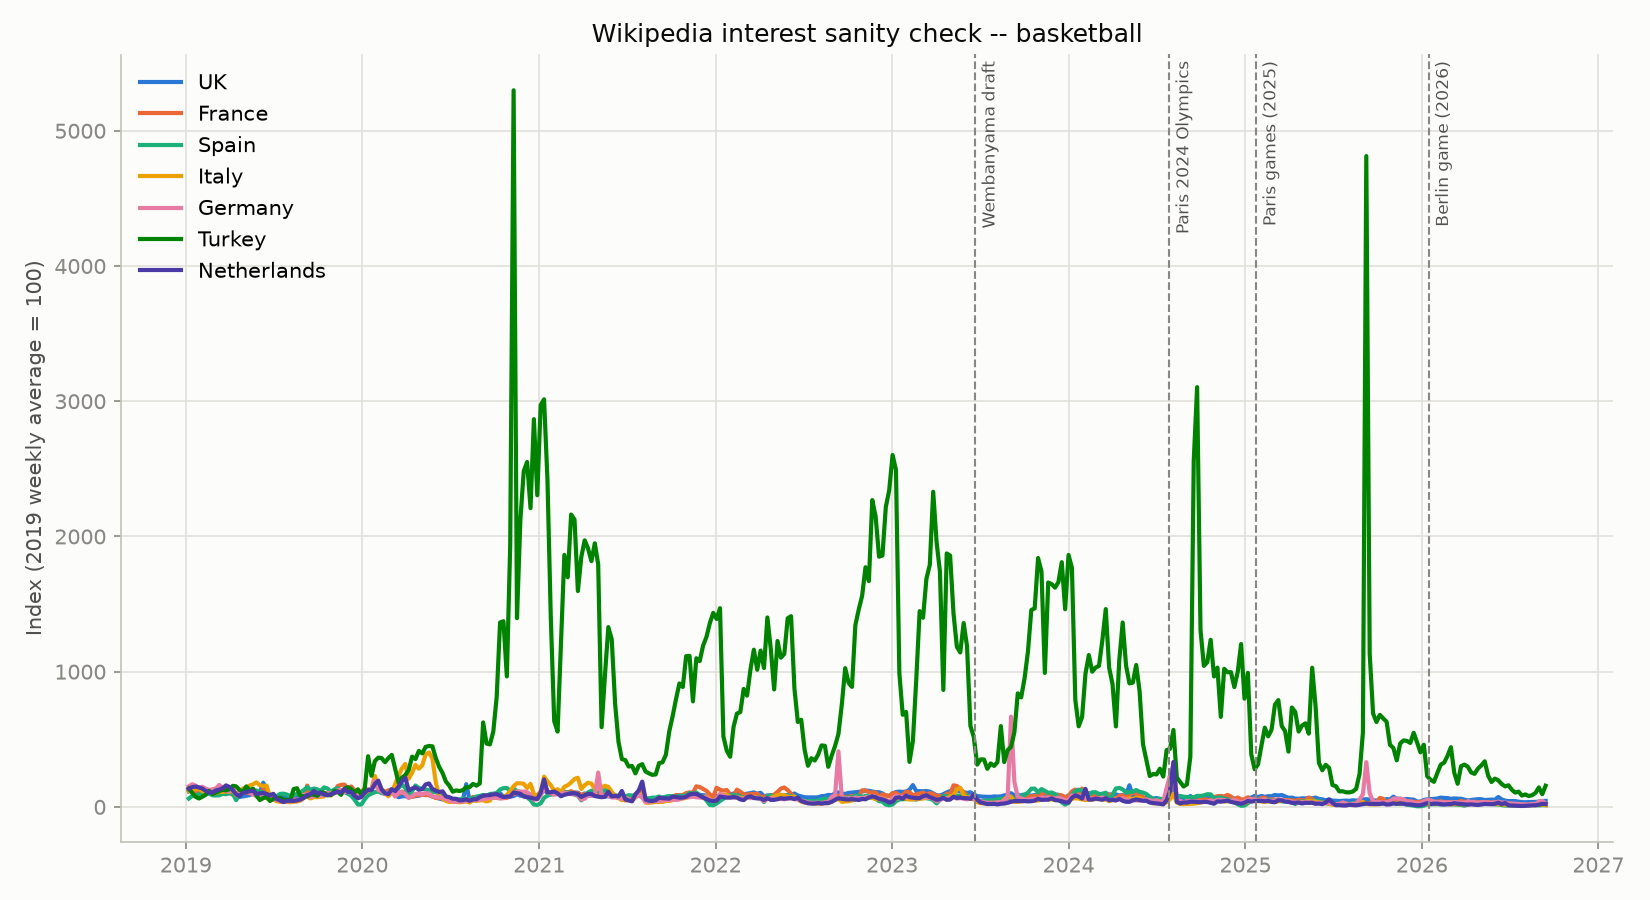
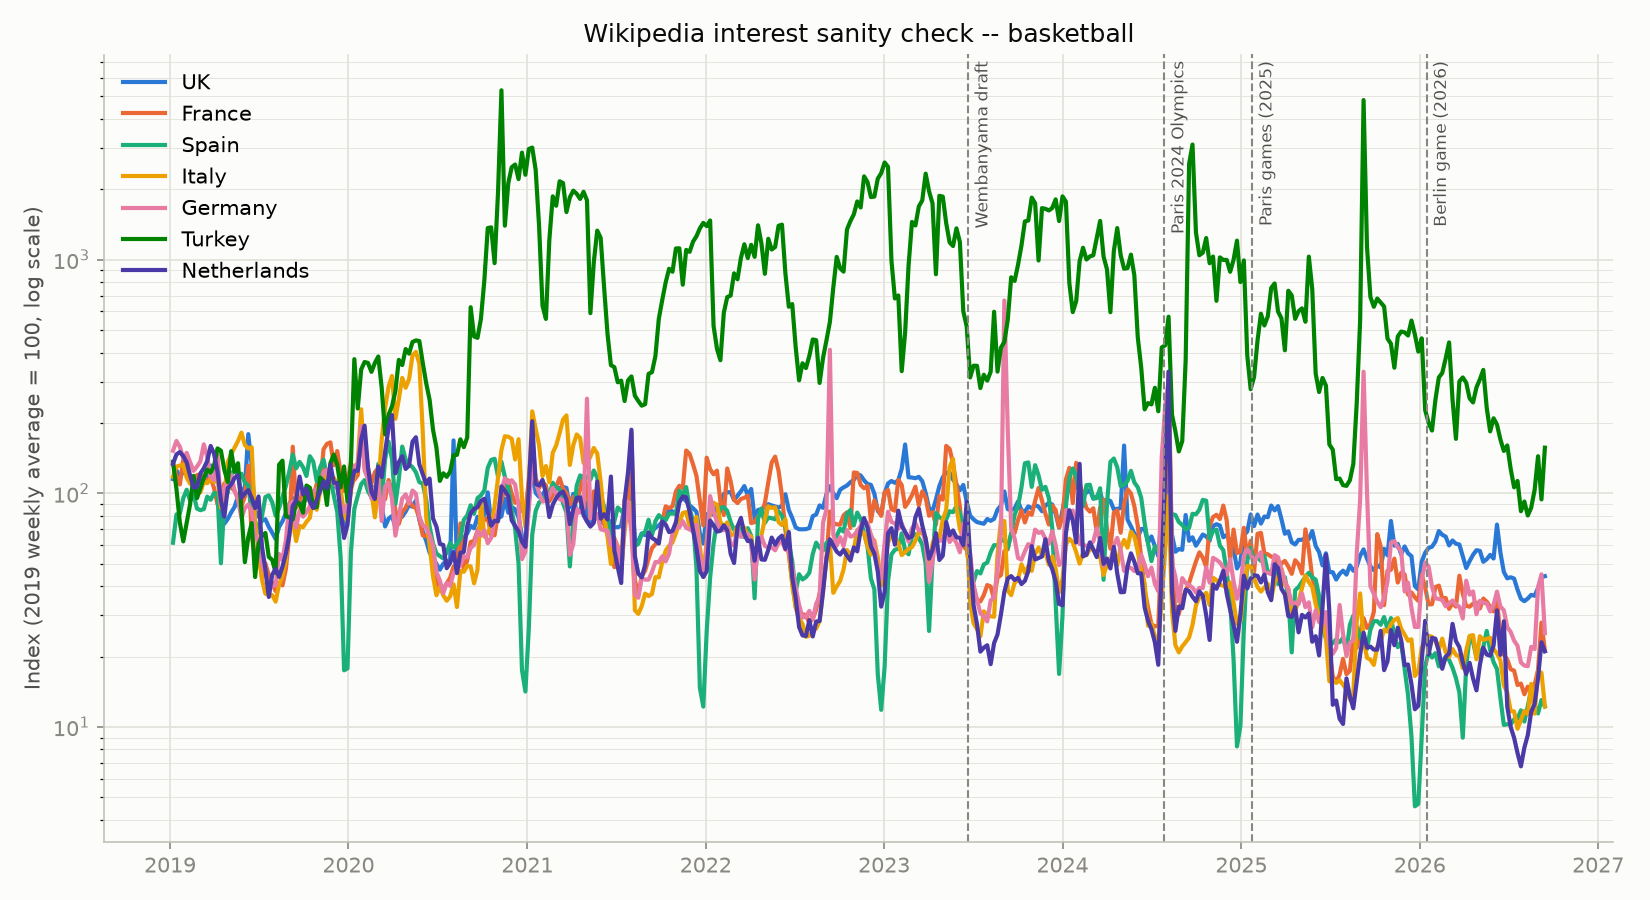
Don't zero-fill multi-day gaps; log-scale sanity charts
Isolated gaps (<3 consecutive missing days) still fill to 0 -- almost
all of them are real zero-view days the pageviews API omits. Runs of
3+ days (it/nba's 2026-07-19..23) are left NULL and excluded from
that week's sum instead, since a week built from 2 real days out of 7
is not the same fact as a week of zero interest. Weekly rows built
from fewer than 7 non-null days are flagged incomplete=True rather
than silently averaged in.

Turkey's index looked like a baseline artifact, but the diagnostic
says otherwise: tr's 2019 median weekly views (240-272) clear the
~100 stability threshold comfortably, while nl/nba's (63) don't --
Turkey's index spikes are one genuinely disproportionate real-world
swing, not thin-baseline noise. Switched both sanity charts to a log
y-axis so every country stays legible next to Turkey's swings.

Logged two more decisions: flagging the Jan 2020 Kobe Bryant news
spike as a confound, and the NULL-vs-zero gap-filling rule.

diff --git a/src/process_interest.py b/src/process_interest.py
@@ -72,7 +72,8 @@ def load_joined(con: duckdb.DuckDBPyConnection) -> None:
 
 
 def build_daily(con: duckdb.DuckDBPyConnection) -> pd.DataFrame:
-    """Full daily calendar per series (own min/max date), gaps filled with 0 views."""
+    """Full daily calendar per series (own min/max date). Missing days are NULL
+    views here; apply_gap_fill decides which ones become 0."""
     return con.execute("""
         WITH series_range AS (
             SELECT lang, country, topic, MIN(day) AS start_day, MAX(day) AS end_day
@@ -85,7 +86,7 @@ def build_daily(con: duckdb.DuckDBPyConnection) -> pd.DataFrame:
             FROM series_range
         )
         SELECT c.lang, c.country, c.topic, c.day,
-               COALESCE(j.views, 0) AS views,
+               j.views AS views,
                (j.day IS NULL) AS was_filled
         FROM calendar c
         LEFT JOIN joined j USING (lang, country, topic, day)
@@ -110,6 +111,21 @@ def find_gap_runs(missing_days: pd.Series) -> list[GapRun]:
         else:
             runs.append(GapRun(day, day, 1))
     return runs
+
+
+def apply_gap_fill(daily: pd.DataFrame) -> pd.DataFrame:
+    """Zero-fill isolated gaps (run length < GAP_CLUSTER_THRESHOLD). Longer runs
+    (3+ days, e.g. it/nba's July 2026 outage) are left NULL so they're excluded
+    from weekly sums rather than faked as zero interest."""
+    daily = daily.copy()
+    for (lang, country, topic), group in daily.groupby(["lang", "country", "topic"], sort=False):
+        missing_days = pd.to_datetime(group.loc[group["was_filled"], "day"]).dt.date
+        for run in find_gap_runs(missing_days):
+            if run.days < GAP_CLUSTER_THRESHOLD:
+                day_col = pd.to_datetime(group["day"]).dt.date
+                in_run = group.index[(day_col >= run.start) & (day_col <= run.end)]
+                daily.loc[in_run, "views"] = 0
+    return daily
 
 
 def report_gaps(daily: pd.DataFrame) -> list[str]:
@@ -149,7 +165,8 @@ def build_weekly_indexed(con: duckdb.DuckDBPyConnection, daily: pd.DataFrame) ->
                    date_trunc('week', day)::DATE AS week_start,
                    date_part('isoyear', day)::BIGINT AS iso_year,
                    date_part('week', day)::BIGINT AS iso_week,
-                   SUM(views) AS views
+                   SUM(views) AS views,
+                   COUNT(views) AS n_days
             FROM daily
             GROUP BY lang, country, topic, week_start, iso_year, iso_week
             HAVING COUNT(*) = 7
@@ -161,7 +178,8 @@ def build_weekly_indexed(con: duckdb.DuckDBPyConnection, daily: pd.DataFrame) ->
             GROUP BY lang, country, topic
         )
         SELECT w.week_start, w.iso_year, w.iso_week, w.lang, w.country, w.topic, w.views,
-               w.views / b.baseline_views * 100 AS "index"
+               w.views / b.baseline_views * 100 AS "index",
+               (w.n_days < 7) AS incomplete
         FROM weekly_raw w
         JOIN baseline b USING (lang, country, topic)
         ORDER BY w.lang, w.topic, w.week_start
@@ -196,9 +214,11 @@ def plot_sanity_chart(weekly: pd.DataFrame, topic: str, out_path: Path) -> None:
             color="#52514e",
         )
 
+    ax.set_yscale("log")
     ax.set_title(f"Wikipedia interest sanity check -- {topic}", color="#0b0b0b")
-    ax.set_ylabel("Index (2019 weekly average = 100)", color="#52514e")
-    ax.grid(True, color="#e1e0d9", linewidth=0.8)
+    ax.set_ylabel("Index (2019 weekly average = 100, log scale)", color="#52514e")
+    ax.grid(True, which="major", color="#e1e0d9", linewidth=0.8)
+    ax.grid(True, which="minor", color="#e1e0d9", linewidth=0.4)
     ax.spines[["top", "right"]].set_visible(False)
     ax.spines[["left", "bottom"]].set_color("#c3c2b7")
     ax.tick_params(colors="#898781")
@@ -206,6 +226,49 @@ def plot_sanity_chart(weekly: pd.DataFrame, topic: str, out_path: Path) -> None:
     fig.tight_layout()
     fig.savefig(out_path, dpi=150)
     plt.close(fig)
+
+
+PEAK_WEEKS = [date(2020, 11, 9), date(2022, 10, 31)]
+
+
+def turkey_diagnostic(weekly: pd.DataFrame) -> list[str]:
+    """2019 baseline stability check for tr (both topics), with nl as a small-market
+    comparison, plus tr's raw weekly views at the two index peak weeks. Diagnostic
+    only -- doesn't change any data."""
+    lines = []
+    for lang, label in (("tr", "Turkey"), ("nl", "Netherlands")):
+        for topic in ("basketball", "nba"):
+            views_2019 = weekly.loc[
+                (weekly["lang"] == lang) & (weekly["topic"] == topic) & (weekly["iso_year"] == 2019),
+                "views",
+            ].dropna()
+            lowest = [f"{v:.0f}" for v in views_2019.sort_values().head(5)]
+            lines.append(
+                f"{label}/{topic} 2019 weekly views: total={views_2019.sum():.0f}  "
+                f"mean={views_2019.mean():.1f}  median={views_2019.median():.1f}"
+            )
+            lines.append(f"  5 lowest weeks: {', '.join(lowest)}")
+            if lang == "tr":
+                stable = views_2019.median() >= 100
+                verdict = (
+                    "median >= ~100 -> baseline can support a reasonably stable index"
+                    if stable
+                    else "median < ~100 -> baseline is too thin, index for this series is unreliable"
+                )
+                lines.append(f"  stability check: {verdict}")
+
+    lines.append("")
+    lines.append("Turkey raw weekly views at the two index peak weeks:")
+    for topic in ("basketball", "nba"):
+        for peak in PEAK_WEEKS:
+            row = weekly[
+                (weekly["lang"] == "tr")
+                & (weekly["topic"] == topic)
+                & (weekly["week_start"].dt.date == peak)
+            ]
+            if not row.empty:
+                lines.append(f"  tr/{topic} week of {peak}: views={row['views'].iloc[0]:.0f}")
+    return lines
 
 
 def print_summary(daily: pd.DataFrame, weekly: pd.DataFrame, gap_lines: list[str]) -> None:
@@ -220,6 +283,14 @@ def print_summary(daily: pd.DataFrame, weekly: pd.DataFrame, gap_lines: list[str
     print("\n=== Weekly table ===")
     print(f"Rows: {len(weekly)}")
     print(f"Week range: {weekly['week_start'].min()} -> {weekly['week_start'].max()}")
+    n_incomplete = int(weekly["incomplete"].sum())
+    print(f"Incomplete rows (built from < 7 non-null days): {n_incomplete}")
+    if n_incomplete:
+        for _, row in weekly[weekly["incomplete"]].iterrows():
+            print(
+                f"  {row['lang']}/{row['topic']} week of {row['week_start'].date()}: "
+                f"views={row['views']}"
+            )
 
     print("\n=== Highest-index week per country ===")
     for topic in ("basketball", "nba"):
@@ -244,6 +315,7 @@ def main() -> None:
 
     daily = build_daily(con)
     gap_lines = report_gaps(daily)
+    daily = apply_gap_fill(daily)
 
     weekly = build_weekly_indexed(con, daily)
     weekly.to_parquet(WEEKLY_PARQUET, index=False)
@@ -252,6 +324,9 @@ def main() -> None:
     plot_sanity_chart(weekly, "nba", CHARTS_DIR / "sanity_nba.png")
 
     print_summary(daily, weekly, gap_lines)
+    print("\n=== Turkey diagnostic ===")
+    for line in turkey_diagnostic(weekly):
+        print(line)
 
 
 if __name__ == "__main__":

diff --git a/docs/decision_log.md b/docs/decision_log.md
@@ -9,3 +9,5 @@ Chronological record of key decisions made during this project, with rationale.
 | 2026-09-22 | Analogs: Wembanyama draft, Paris 2024 Olympics, NBA games in Europe (2025–26) | Each captures a different demand mechanism |
 | 2026-09-22 | Olympics treated as upper bound | Olympic halo; France reached both finals |
 | 2026-09-22 | Paris 2025 games flagged as confounded | Marketed as Wembanyama's homecoming |
+| 2026-09-22 | Jan 2020 flagged as confound | Kobe Bryant's death dominates that week in 5 of 7 markets |
+| 2026-09-22 | 3+ day data gaps left NULL, not zero-filled | Avoids inventing a dip (it/nba, July 2026) |
